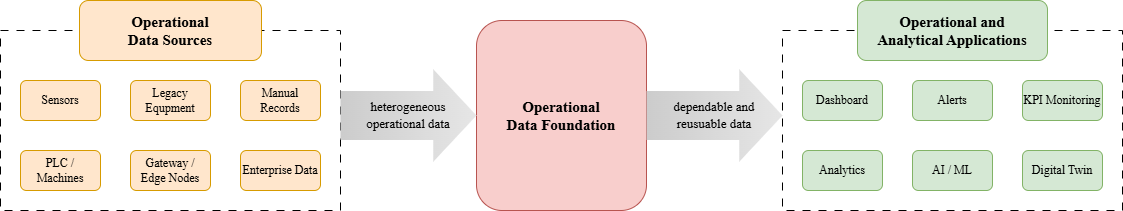
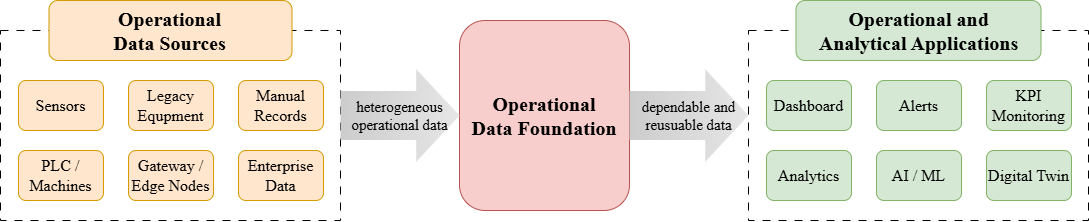
Refactor code structure for improved readability and maintainability

diff --git a/Research/ODFF/ODFF.tex b/Research/ODFF/ODFF.tex
@@ -43,7 +43,7 @@
 
 %=================================================================
 % Full title of the paper (Capitalized)
-\Title{ODFF: Operational Data Foundation Framework}
+\Title{Operational Data Foundation Framework for SME Smart Manufacturing: Field Implementation and Evidence}
 
 % Author Orchid ID: enter ID or remove command
 \newcommand{\orcidauthorA}{0009-0003-4190-193X}
@@ -196,7 +196,7 @@ This section analyzes the data basis of smart manufacturing as an operational pi
 \begin{figure}
     \centering
     \includegraphics[width=1\linewidth]{figures/3-1_Data_Lifecycle.png}
-    \caption{Enter Caption}
+    \caption{General data pipeline lifecycle in smart manufacturing.}
     \label{fig:data_lifecycle}
 \end{figure}
 
@@ -224,7 +224,7 @@ This lifecycle is analytically useful because it makes visible the full path thr
 \begin{figure}
     \centering
     \includegraphics[width=1\linewidth]{figures/3-2_Data_Lifecycle.png}
-    \caption{Enter Caption}
+    \caption{SME constraints across the general data pipeline lifecycle.}
     \label{fig:3-2_data_lifecycle}
 \end{figure}
 
@@ -275,7 +275,7 @@ Taken together, these risks show that a smart manufacturing data pipeline in con
 \begin{figure}
     \centering
     \includegraphics[width=1\linewidth]{figures/4-1_Framework.png}
-    \caption{Enter Caption}
+    \caption{Operational Data Foundation Framework.}
     \label{fig:4-1_framework}
 \end{figure}
 
@@ -356,7 +356,7 @@ Table~\ref{tab:constraint_design_logic} provides this first synthesis. It shows 
 
 
 \begin{table}[H]
-\caption{From SME Constraints to Operational Design Logic.\label{tab:constraint_design_logic}}
+\caption{From SME constraints to operational design logic.\label{tab:constraint_design_logic}}
 \begin{adjustwidth}{-\extralength}{0cm}
 \begin{tabularx}{\fulllength}{
 >{\raggedright\arraybackslash}X
@@ -446,7 +446,7 @@ Taken together, Table~\ref{tab:constraint_design_logic} translates constrained S
 
 
 \begin{table}[H]
-\caption{Mapping the General Lifecycle to the Operational Foundation Logic.\label{tab:lifecycle_foundation_logic}}
+\caption{Mapping the general data pipeline lifecycle to the operational foundation logic.\label{tab:lifecycle_foundation_logic}}
 \begin{adjustwidth}{-\extralength}{0cm}
 \begin{tabularx}{\fulllength}{
 >{\raggedright\arraybackslash}X
@@ -534,19 +534,19 @@ This section describes how the proposed framework was instantiated in a real SME
 \begin{figure}
     \centering
     \includegraphics[width=1\linewidth]{figures/5-1_Factory.png}
-    \caption{Enter Caption}
+    \caption{Factory layout with representative sensing and edge deployment.}
     \label{fig:5-1_factory}
 \end{figure}
 
-The empirical setting of this study was an SME factory producing traditional food products, namely the Idang Food yakgwa plant. Its production flow spans multiple stages, including raw-material receiving, weighing, mixing, forming, frying, coating, cooling, inner packaging, detection, outer packaging, and storage. Rather than operating as a single highly integrated automated line, the plant consists of multiple workspaces and process segments whose operational states are spatially distributed. As a result, plant status cannot be understood through observation of a single machine or point in time; it requires distributed state information to be captured and connected across the production flow.
+The empirical setting of this study was the Idang Food yakgwa plant, one of several OEM factories managed by ONGOING, an F\&B company operating across multiple production sites. The deployment was therefore designed not as an isolated factory pilot, but as the first field implementation of a broader architecture in which operational data from multiple factories could be collected locally and managed through a shared cloud-side structure. In this sense, Idang Food was selected not only as a practical implementation site, but also as a representative case through which this study examines how an operational data foundation can be established under constrained SME manufacturing conditions.
 
-Before digitalization, production and quality management at the plant relied primarily on manual records and worker experience. Although records existed, they were neither consistently structured nor accumulated in forms suitable for retrieval, comparison, or downstream analysis. Process-state information was also fragmented across spaces and tasks, making it difficult to trace when and where abnormal conditions emerged and under what environmental or operational changes they occurred. The core problem, therefore, was not the complete absence of data, but the absence of continuous, automatic, and reusable operational records.
+The plant's production flow included raw-material receiving, weighing, mixing, forming, frying, coating, cooling, inner packaging, detection, outer packaging, and storage. Yet the main challenge of the site did not lie simply in the number of stages. Operationally relevant states were distributed across different rooms, devices, and tasks, while production and quality management depended heavily on manual records and worker judgement. Process conditions were not accumulated as connected records, weighing-related checks remained strongly operator-dependent, and environmental histories across process and storage zones were difficult to preserve and compare over time. As a result, when abnormal conditions or quality issues emerged, the plant did not lack observations in an absolute sense; rather, it lacked continuous and reusable operational records that could support traceability and later interpretation.
 
-This setting also reflects the characteristic constraints of SME manufacturing. The plant did not have a pre-established large-scale smart-factory infrastructure with stable internal connectivity and standardized interfaces. Instead, it combined legacy equipment, fragmented information flow, manual logging practices, and limited internal networking. In particular, always-on WiFi/LAN connectivity was unavailable inside the plant, making direct connection from field devices to a centralized system impractical. In addition, the commercial electronic scale used in production did not provide native networking capability, so its integration required a non-intrusive retrofit rather than equipment replacement. In this sense, the plant was not merely small in scale; it represented a deployment environment in which the assumptions of stable connectivity, standardized access, and centralized visibility were weakened from the outset.
+This made the site suitable for the present study. Idang Food reflected several conditions that commonly characterize constrained SME factories: heterogeneous and partly non-networked sources, fragmented process visibility, limited internal connectivity, and restricted operational slack for day-to-day technical management. Under such conditions, an operational data foundation could not be assumed to arise simply from downstream software or cloud connectivity. It first had to be built from the field upward by making process states recordable, collectable, and sustainable as data under actual production constraints.
 
-For this reason, the sensing scope of the study was defined not as an arbitrary technology trial, but as a risk-oriented operational design. Temperature and humidity sensors were deployed across key locations including the plant entrance, forming room, heating room, cooling room, drying room, packaging areas, raw-material storage, and finished-product storage. Each placement served a distinct purpose, such as environmental comparison with outside conditions, monitoring of heat-sensitive or humidity-sensitive stages, or preservation tracking during storage. In addition, the inclusion of the electronic scale extended the system beyond an environmental sensor network and brought a legacy production device into the operational data flow. The resulting sensing scope was therefore defined not by what could be measured in general, but by which operational risks and process states needed to be made recordable and traceable.
+The field deployment should be understood in this light. The study did not begin from an already prepared digital source environment, but from the practical requirement to establish one inside the factory through on-site sensing and edge-side installation. Figure~\ref{fig:5-1_factory} presents this deployment context by showing the production environment together with representative sensing and edge elements installed in the field. The significance of the case, however, lies less in the installation itself than in what that installation enabled: a concrete demonstration of how a constrained SME factory can begin to acquire the operational basis required for continuity, traceability, and later cloud-side integration.
 
-Taken together, this plant provides an appropriate field setting for the present study because it exposes, in a concentrated form, the conditions under which an operational data foundation becomes necessary. Manual records, fragmented visibility, non-networked equipment, limited connectivity, and low operational slack all coexist in this environment. The value of the case lies not in the specific product category itself, but in the fact that it makes visible why an operationally viable data foundation must precede higher-level smart manufacturing applications in constrained SME settings.
+Accordingly, the role of Idang Food in this study was twofold. At the factory level, it provided a realistic constrained environment in which fragmented sources, manual practices, and brownfield conditions had to be handled in practice. At the system level, it served as the first implementation site of an architecture intended to support factory-to-cloud data flow and centralized multi-factory management. For this reason, the next subsection begins with field data acquisition and the edge architecture, because the first requirement of the operational data foundation was to explain how field data were physically captured and operationally secured at the factory before they were forwarded into the broader cloud-side system.
 
 %%%%%%%%%%%%%%%%%%%%%%%%%%%%%%%%%%%%%%%%%%
 \subsection{Field Data Acquisition and Edge Stack}
@@ -554,21 +554,21 @@ Taken together, this plant provides an appropriate field setting for the present
 \begin{figure}
     \centering
     \includegraphics[width=1\linewidth]{figures/edge.png}
-    \caption{Enter Caption}
+    \caption{Edge architecture for field data acquisition.}
     \label{fig:edge}
 \end{figure}
 
-To secure field data under these conditions, the acquisition layer was implemented as a source-near architecture in which data were first accepted and preserved locally before being forwarded to upper layers. The overall acquisition path began from source devices such as temperature--humidity sensors and the electronic scale, continued through LoRa communication and a LoRa gateway, and then passed through a ChirpStack-based collection layer, an MQTT broker, and a Raspberry Pi~5 edge node. In this structure, the edge node was not treated as a simple relay point, but as the first operational boundary for accepting, buffering, and preserving field data.
+The factory-side acquisition layer was implemented as an edge-centered intake stack that received field data inside the plant, preserved them locally, and then forwarded them to the cloud event pipeline. Because the plant did not provide a uniform network-native source environment or stable plant-wide connectivity across distributed process areas, the architecture was organized around a local edge boundary rather than direct source-to-cloud transmission.
 
-LoRa was selected as the field communication protocol because the plant lacked stable internal Internet infrastructure and required a deployment mode that could support distributed sensing without extensive wiring. The choice was not intended to claim universal superiority over WiFi or LTE, but to support long-range, low-power, and incrementally extensible sensing under brownfield conditions. On this basis, an independent gateway--edge local network was established so that field data could be accepted even in the absence of permanent plant-wide connectivity.
+LoRaWAN was selected as the field communication network because it allowed distributed source collection across the plant without extensive wiring and supported locally controlled operation under constrained factory conditions. Accordingly, the plant-side network was organized around LoRa uplinks converging on a local gateway and edge node.
 
-The installed field devices included twelve DRAGINO LHT65N-E3 temperature--humidity sensors, one QW-15 electronic scale, one RAK7268V2 LoRa gateway, and one Raspberry Pi~5 edge server equipped with an NVMe SSD for local persistence. The environmental sensors were battery-powered LoRa devices distributed across the plant, while the gateway and edge node served as the local intake infrastructure. This was therefore not a homogeneous IoT deployment composed only of network-native devices, but a brownfield source environment in which LoRa sensors and a non-networked legacy scale had to coexist within the same operational flow.
+As shown in Figure~\ref{fig:edge}, field events were transmitted through LoRa to the gateway, handled by ChirpStack Gateway Bridge and ChirpStack Server, relayed through an MQTT broker, and then accepted by edge-side services. On the edge node, MQTT logger and source-specific collectors wrote accepted records into local SQLite stores. This made the acquisition path explicit---field transmission, gateway reception, LoRaWAN handling, MQTT relay, edge logging, and upper-layer forwarding were treated as separate steps---and allowed the edge node to function as the first stable intake and persistence boundary of the system.
 
-The legacy scale required a separate integration path because it did not support native network transmission. To incorporate weighing data without replacing the device, the printer port of the scale was connected through an RS232 cross-serial cable, and the resulting signal was converted into a data stream readable by the Raspberry Pi. In practice, this flow can be summarized as \emph{Scale $\rightarrow$ RS232 $\rightarrow$ RPi $\rightarrow$ LoRa}. In addition, the collection program for the scale was implemented as a daemon script so that data capture resumed automatically after disconnection or reconnection. This made the integration operationally usable rather than merely technically possible.
+A central function of the edge stack was local persistence. Sensor uplinks accepted through MQTT were written to SQLite before cloud delivery was assumed, and additional edge-side components preserved operational traces needed to inspect collection quality and local failure modes. As a result, accepted field events first became durable inside the factory rather than remaining only as transient in-flight messages.
 
-Beyond the gateway, ChirpStack Gateway Bridge and ChirpStack Server managed the LoRaWAN devices and the gateway, while an MQTT broker served as the hub for uplink message transfer. On the edge node, an MQTT logger and a scale logger recorded sensor uplinks and scale data, respectively, into SQLite as local backups. This meant that raw payloads and weighing logs were preserved at the edge regardless of the state of the upper transmission path. The edge therefore functioned as a local persistence boundary rather than as a transient communication hop, and continuity was secured first at the field side rather than deferred to cloud reception.
+The edge stack also accommodated heterogeneous source conditions. A representative example was the production electronic scale, which did not provide native network communication. Its printer port was connected to the Raspberry Pi through an RS232 serial link, and a dedicated daemon collector parsed the incoming weighing values, stored them locally, and transmitted them through a LoRa device attached to the Raspberry Pi so that they could enter the same acquisition path as other field events. In practical terms, this flow can be summarized as \emph{Scale $\rightarrow$ RS232 $\rightarrow$ RPi $\rightarrow$ LoRa}. This showed that the edge architecture could absorb not only standard wireless sensor uplinks but also non-networked legacy equipment within the same factory-side event flow.
 
-The edge stack also incorporated diagnosability-oriented support functions. A Redis metrics exporter transferred session- and uplink-related metrics from Redis into SQLite for longer-term analysis, while a battery monitor tracked voltage-related payload fields to observe sensor energy status. Additional metrics tools were used to cross-check gateway reception, device transmission, and database storage states and to analyze reception quality based on RSSI and SNR. The improvement of packet success rate from roughly 33\% to approximately 95\% in the field showed that edge-side diagnosability was not a secondary convenience, but an operational component of continuity and maintainability. Overall, the field acquisition and edge stack formed an operational capture layer that could incorporate heterogeneous sources, preserve data locally, and support source-near diagnosis of collection instability.
+Once accepted and retained at the edge, the records were forwarded by producer services to the cloud broker layer. In the broader architecture, this upstream path was organized around Kafka-based streaming, including AWS MSK on the cloud side, so that raw events from each factory could be published into a shared event pipeline for subsequent parsing, normalization, and persistence. The next subsection explains that cloud-side processing path.
 
 %%%%%%%%%%%%%%%%%%%%%%%%%%%%%%%%%%%%%%%%%%
 \subsection{Cloud Processing Architecture}
@@ -576,7 +576,7 @@ The edge stack also incorporated diagnosability-oriented support functions. A Re
 \begin{figure}
     \centering
     \includegraphics[width=1\linewidth]{figures/kafka.png}
-    \caption{Enter Caption}
+    \caption{Cloud-side processing architecture.}
     \label{fig:kafka}
 \end{figure}
 
@@ -596,7 +596,7 @@ The cloud architecture also maintained clear deployment boundaries. Shared event
 
 
 \begin{table}[H]
-\caption{Cloud-side Components and Responsibilities.\label{tab:cloud_components_responsibilities}}
+\caption{Cloud-side components and responsibilities.\label{tab:cloud_components_responsibilities}}
 \begin{tabularx}{\textwidth}{
 >{\raggedright\arraybackslash}X
 >{\raggedright\arraybackslash}X
@@ -693,7 +693,7 @@ This subsection assesses the framework in terms of the six core requirements def
 
 
 \begin{table}[H]
-\caption{Requirement-wise Evidence and Significance.\label{tab:requirement_evidence_significance}}
+\caption{Requirement-wise evidence and significance.\label{tab:requirement_evidence_significance}}
 \begin{tabularx}{\textwidth}{
 >{\raggedright\arraybackslash}X
 >{\raggedright\arraybackslash}X
@@ -763,7 +763,7 @@ Once the likely bottleneck had been localized to the communication layer, the re
 
 
 \begin{table}[H]
-\caption{Segment-wise Event Counts during Reception Degradation.\label{tab:segmentwise_event_counts}}
+\caption{Event counts across pipeline segments during reception degradation.\label{tab:segmentwise_event_counts}}
 \begin{tabularx}{\textwidth}{
 >{\raggedright\arraybackslash}X
 >{\raggedleft\arraybackslash}X
@@ -813,14 +813,20 @@ The significance of this case extends beyond successful LoRa tuning. It demonstr
 
 \begin{figure}[H]
     \centering
-    \includegraphics[width=1\linewidth]{figures/6-1_reception.png}
-    \caption{Enter Caption}
-    \label{fig:reception}
+    \subfloat[\centering\label{fig:reception_before}]{
+        \includegraphics[width=\linewidth]{figures/figure6_2_before_adjustment.png}
+    }\\[0.7em]
+    \subfloat[\centering\label{fig:reception_after}]{
+        \includegraphics[width=\linewidth]{figures/figure6_2_after_adjustment.png}
+    }
+    \caption{Reception stability across sensing points over time. (\textbf{a}) Before adjustment. (\textbf{b}) After adjustment.}
+    \label{fig:reception_stability}
 \end{figure}
 
 
+
 \begin{table}[H]
-\caption{Outcome of Reception Reliability Improvement.\label{tab:reception_improvement_outcome}}
+\caption{Outcome of reception reliability improvement.\label{tab:reception_improvement_outcome}}
 \begin{tabularx}{\textwidth}{
 >{\raggedright\arraybackslash}X
 >{\raggedleft\arraybackslash}X
@@ -894,47 +900,6 @@ This study has several limitations. The framework was examined through a single 
 
 \conflictsofinterest{The authors declare no conflicts of interest.} 
 
-
-%%%%%%%%%%%%%%%%%%%%%%%%%%%%%%%%%%%%%%%%%%
-%% Optional
-
-\abbreviations{Abbreviations}{
-The following abbreviations are used in this manuscript:
-\\
-
-\noindent 
-\begin{tabular}{@{}ll}
-MDPI & Multidisciplinary Digital Publishing Institute\\
-DOAJ & Directory of open access journals\\
-TLA & Three letter acronym\\
-LD & Linear dichroism
-\end{tabular}
-}
-
-%%%%%%%%%%%%%%%%%%%%%%%%%%%%%%%%%%%%%%%%%%
-%% Optional
-\appendixtitles{no} % Leave argument "no" if all appendix headings stay EMPTY (then no dot is printed after "Appendix A"). If the appendix sections contain a heading then change the argument to "yes".
-\appendixstart
-\appendix
-\section[\appendixname~\thesection]{}
-\subsection[\appendixname~\thesubsection]{}
-The appendix is an optional section that can contain details and data supplemental to the main text---for example, explanations of experimental details that would disrupt the flow of the main text but nonetheless remain crucial to understanding and reproducing the research shown; figures of replicates for experiments of which representative data are shown in the main text can be added here if brief, or as Supplementary Data. Mathematical proofs of results not central to the paper can be added as an appendix.
-
-\begin{table}[H] 
-\caption{This is a table caption.\label{tab5}}
-%\newcolumntype{C}{>{\centering\arraybackslash}X}
-\begin{tabularx}{\textwidth}{CCC}
-\toprule
-\textbf{Title 1}	& \textbf{Title 2}	& \textbf{Title 3}\\
-\midrule
-Entry 1		& Data			& Data\\
-Entry 2		& Data			& Data\\
-\bottomrule
-\end{tabularx}
-\end{table}
-
-\section[\appendixname~\thesection]{}
-All appendix sections must be cited in the main text. In the appendices, Figures, Tables, etc. should be labeled, starting with ``A''---e.g., Figure A1, Figure A2, etc.
 
 %%%%%%%%%%%%%%%%%%%%%%%%%%%%%%%%%%%%%%%%%%
 %\isPreprints{}{% This command is only used for ``preprints''.